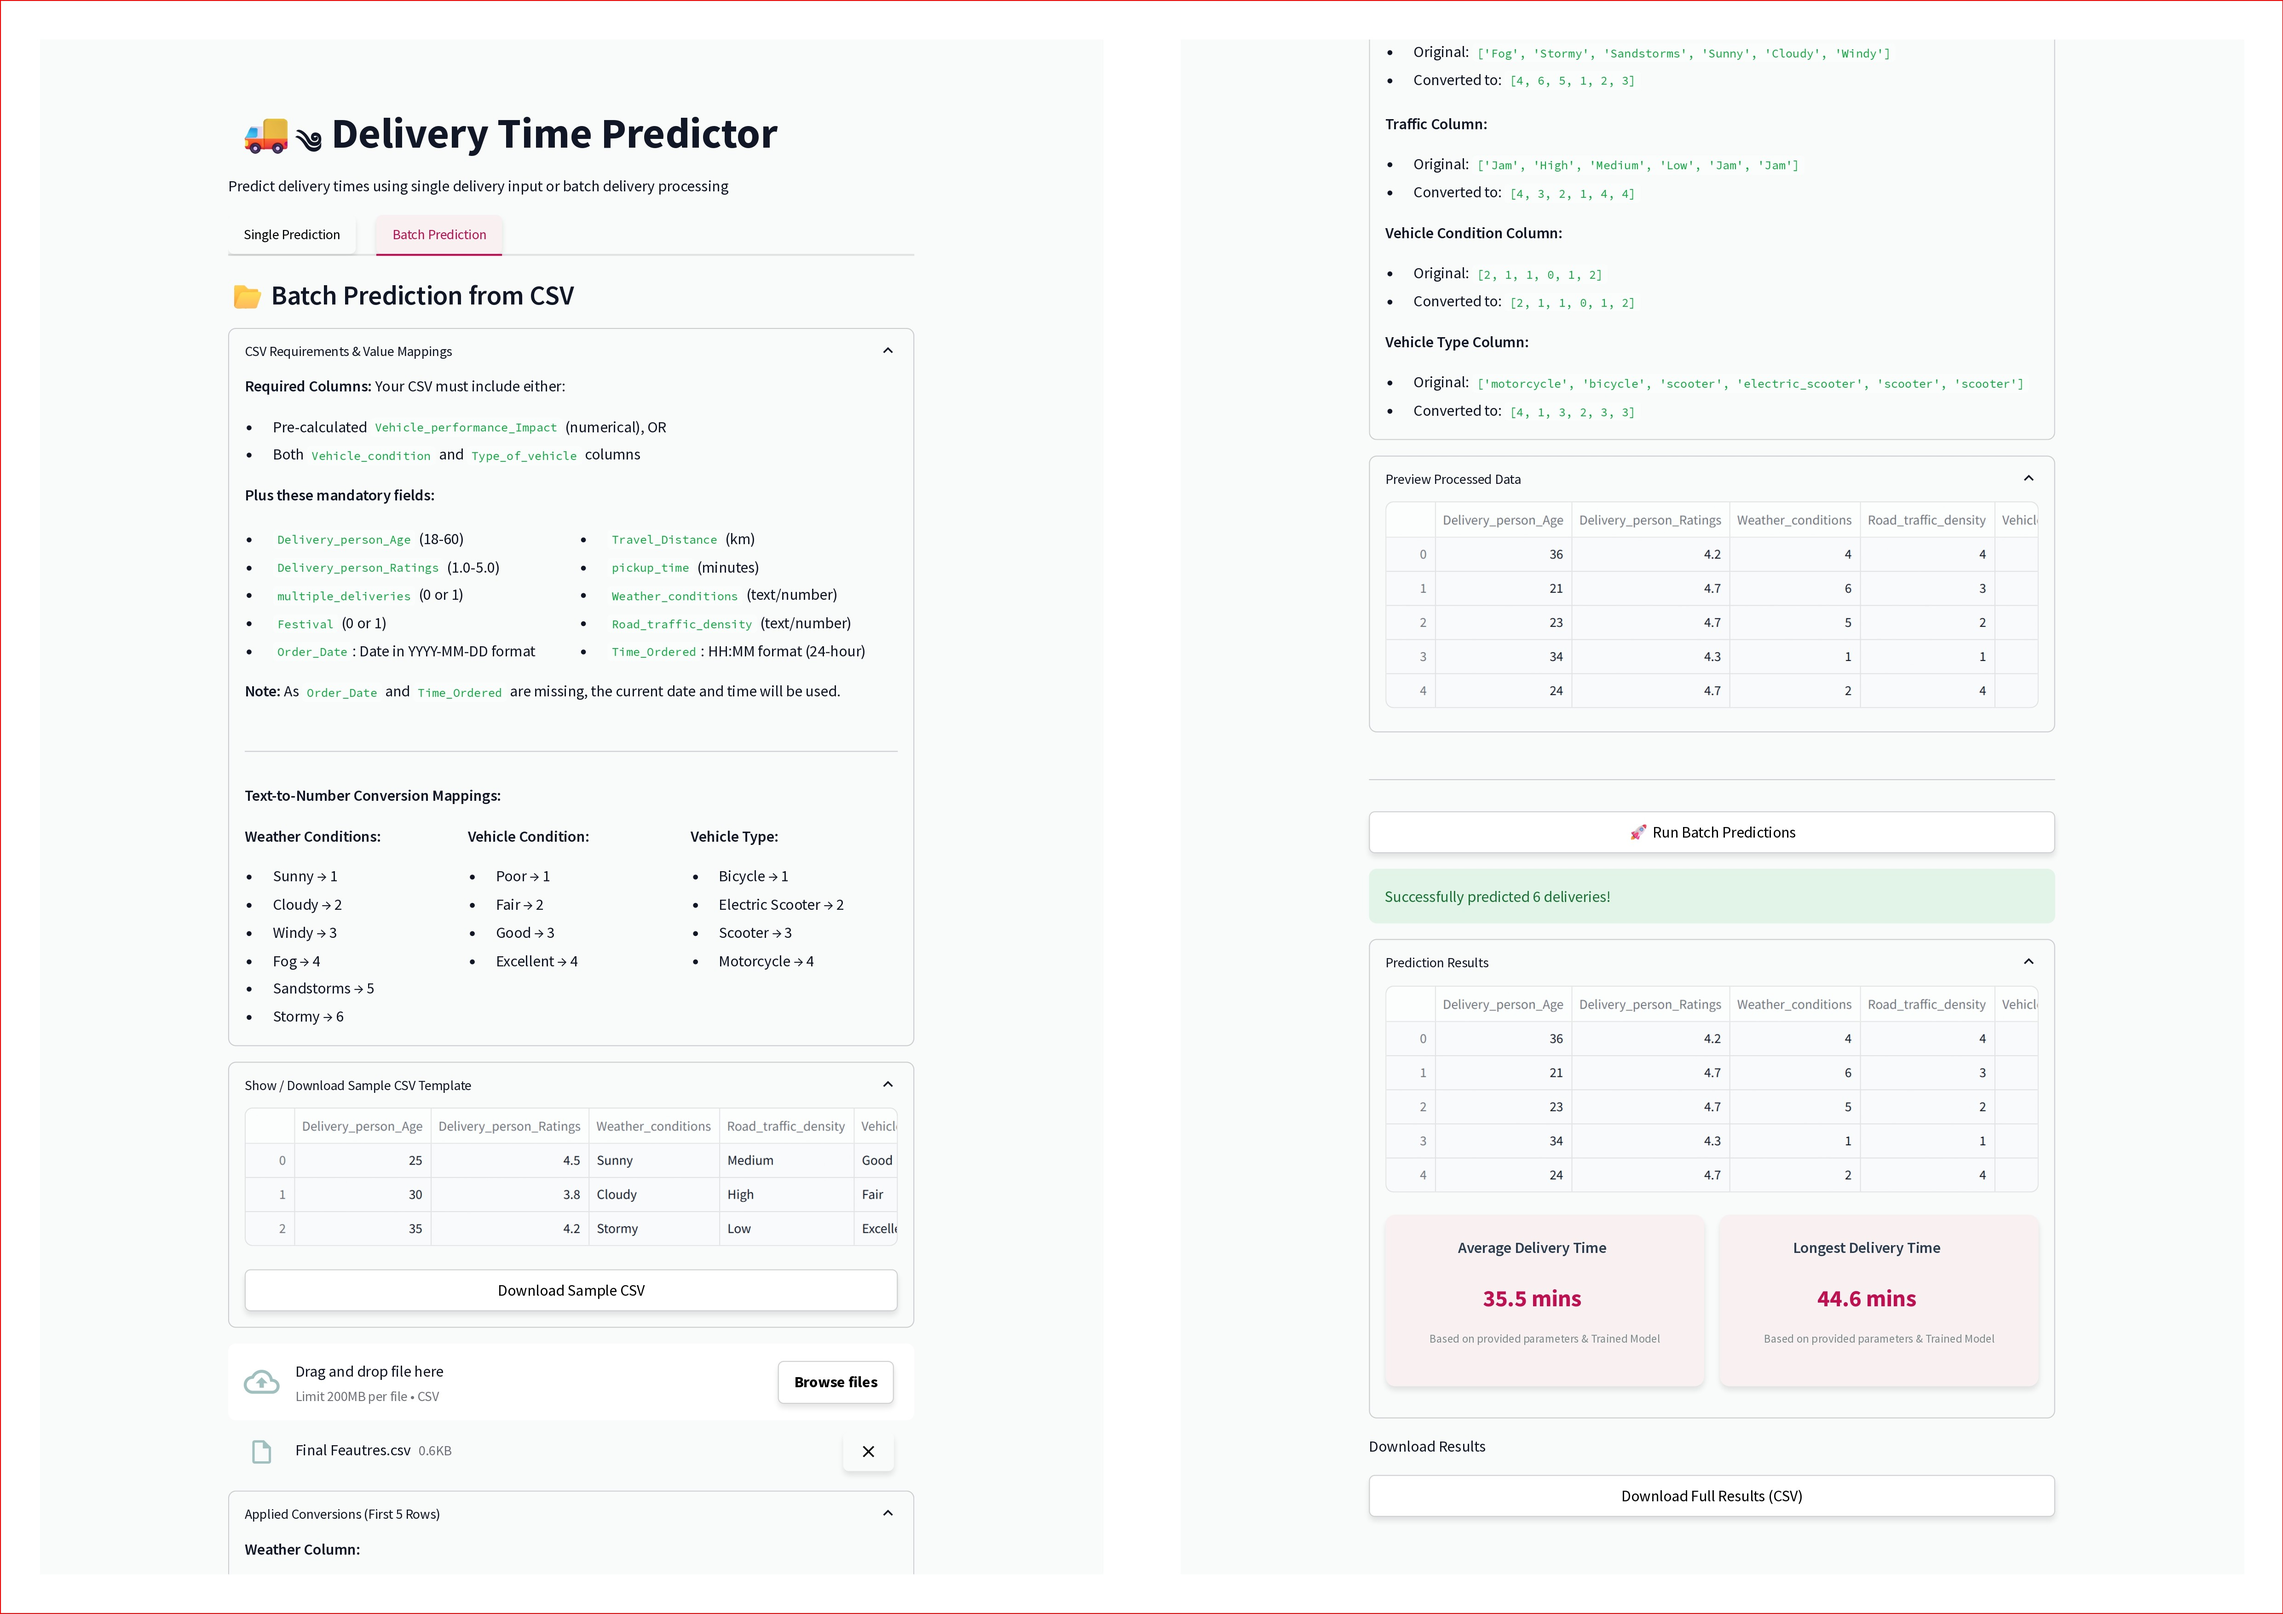
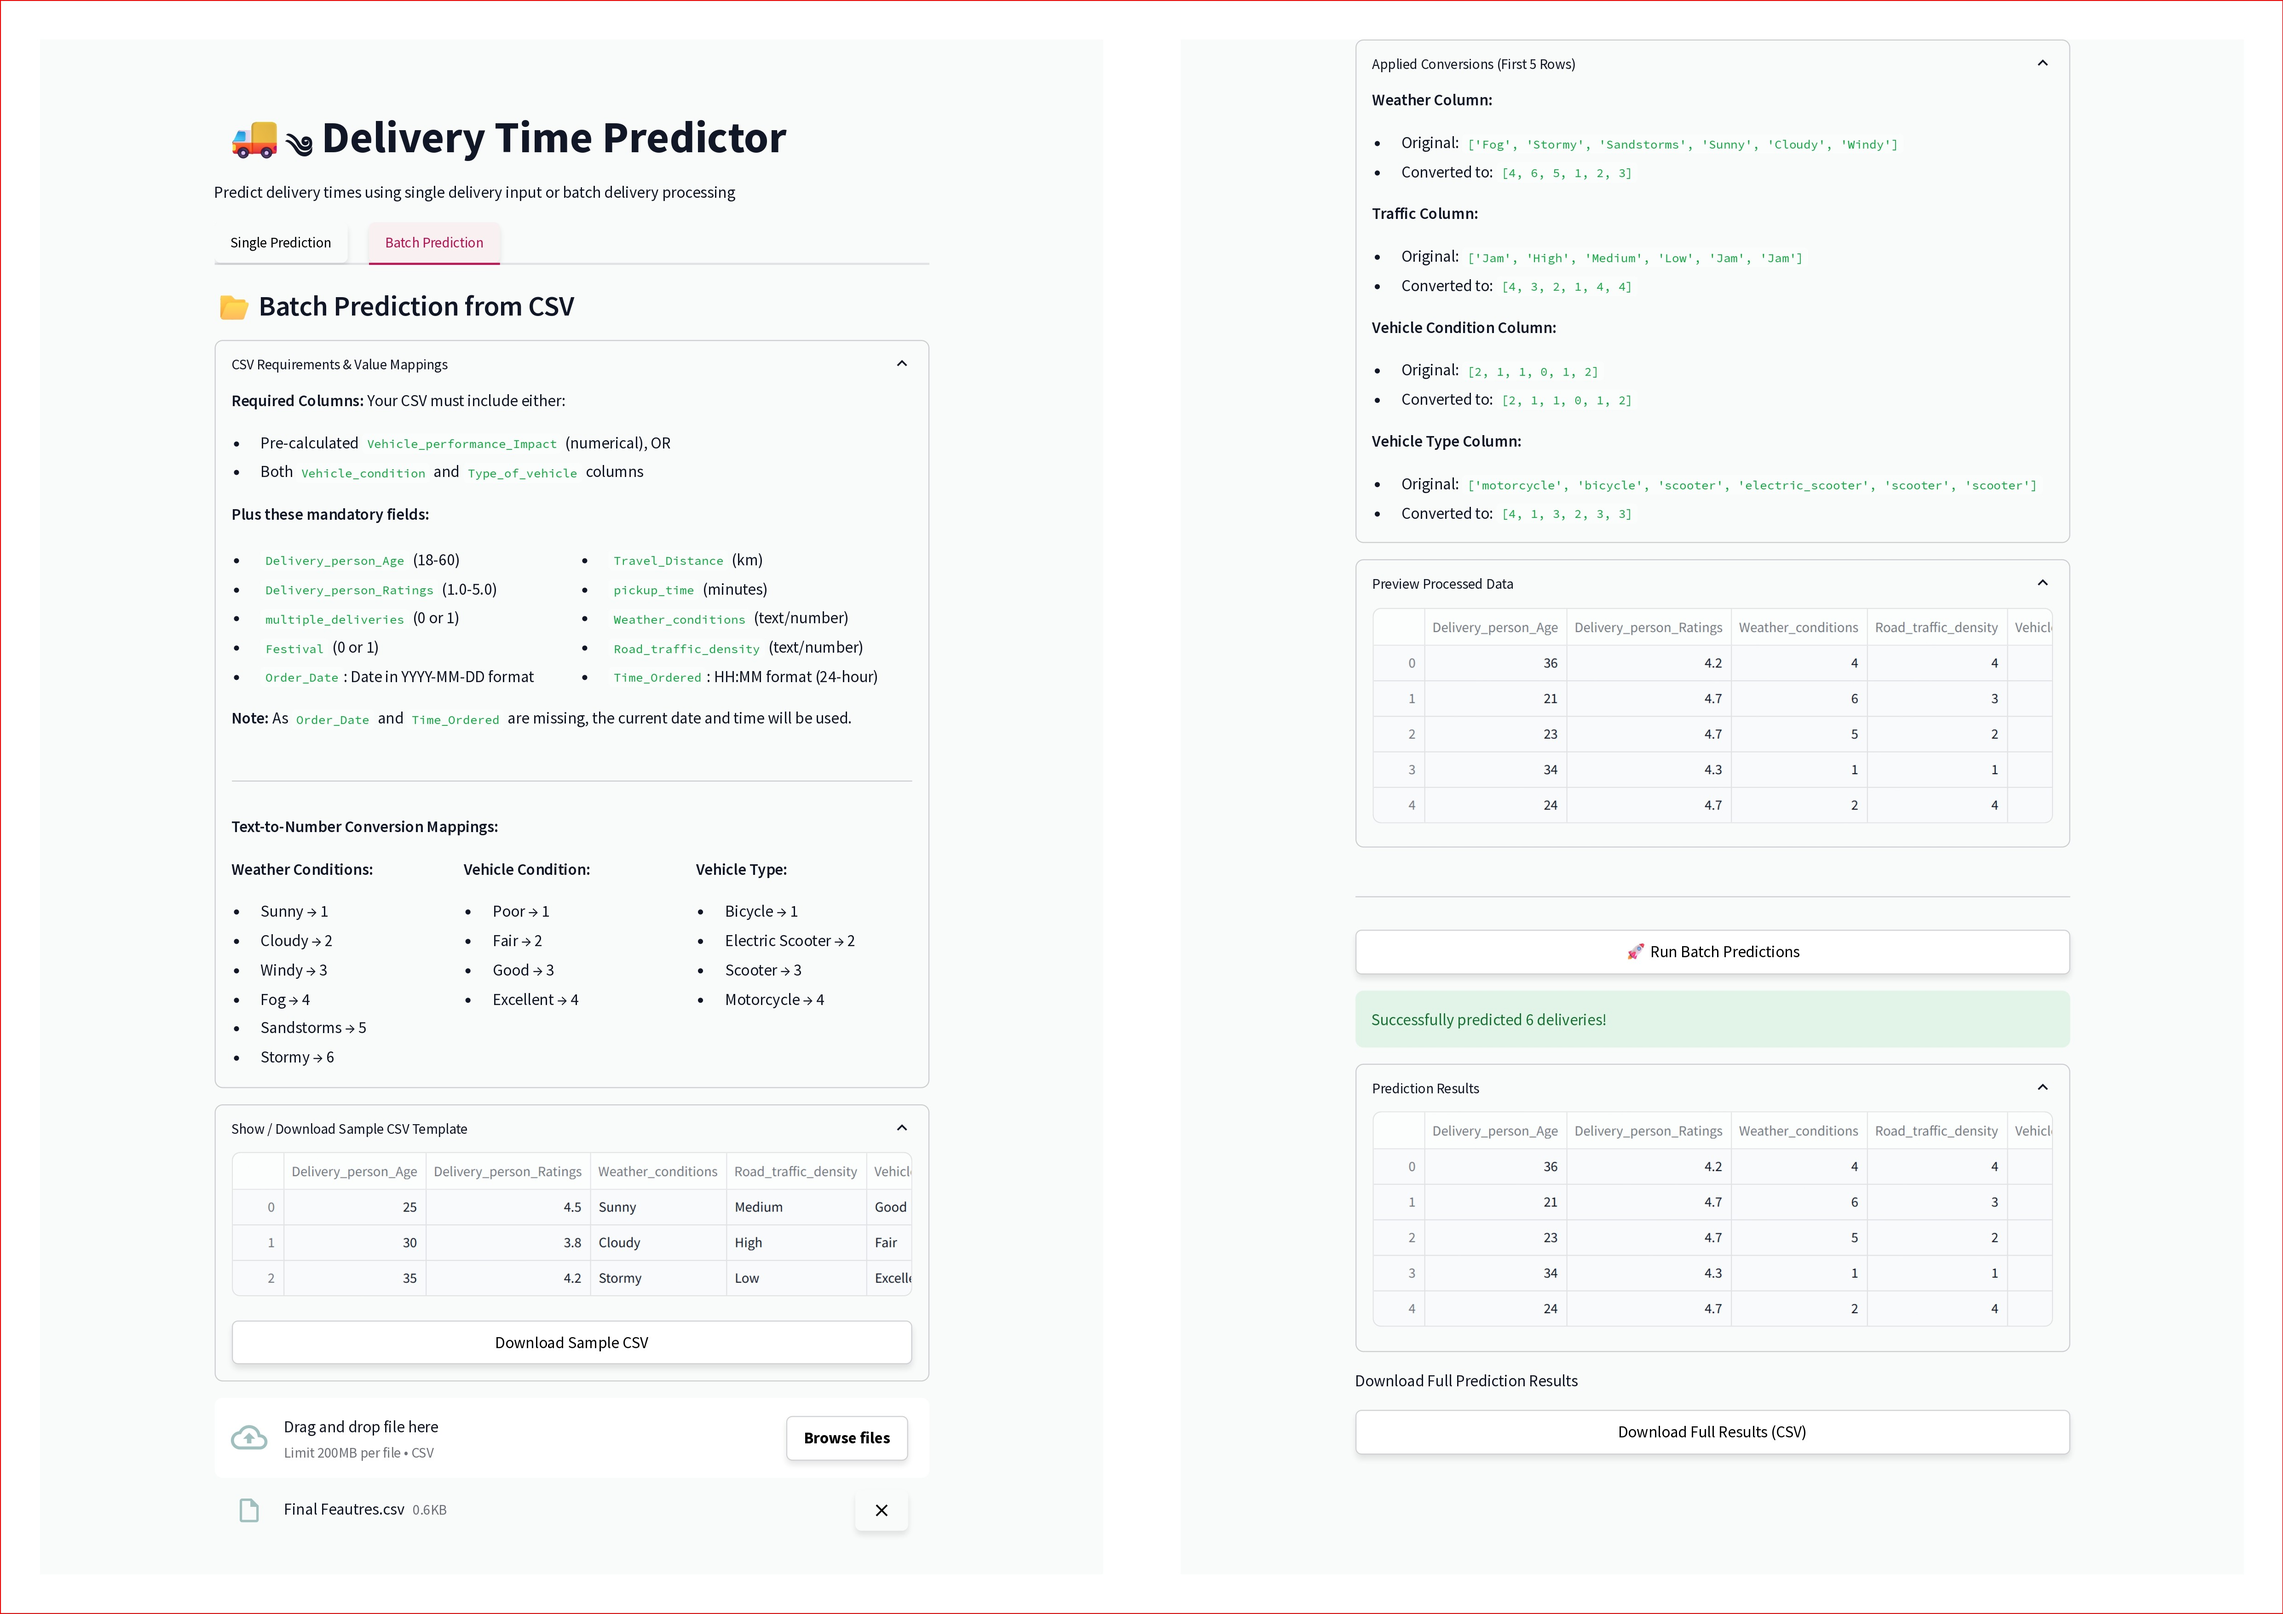
Metric card remove

diff --git a/components/batch_prediction.py b/components/batch_prediction.py
@@ -240,26 +240,10 @@ def batch_prediction_tab():
                         with st.expander("Prediction Results", expanded=True):
                             st.dataframe(result_df.head())
                             
-                            col1, col2 = st.columns(2)
-                            with col1:
-                                st.markdown(f"""
-                                    <div class="metric-card" style="background-color: #F9F0F3; text-align: center;">
-                                        <h6 style="color: #2c3e50;">Average Delivery Time</h6>
-                                        <h4 style="color: #C31052; font-weight: bold;">{result_df['Predicted_Delivery_Time'].mean():.1f} mins</h4>
-                                        <p style="color: #7f8c8d; font-size: 12px;">Based on provided parameters & Trained Model</p>
-                                    </div>
-                                    """, unsafe_allow_html=True)
-                            with col2:
-                                st.markdown(f"""
-                                    <div class="metric-card" style="background-color: #F9F0F3; text-align: center;">
-                                        <h6 style="color: #2c3e50;">Longest Delivery Time</h6>
-                                        <h4 style="color: #C31052; font-weight: bold;">{result_df['Predicted_Delivery_Time'].max():.1f} mins</h4>
-                                        <p style="color: #7f8c8d; font-size: 12px;">Based on provided parameters & Trained Model</p>
-                                    </div>
-                                    """, unsafe_allow_html=True)
+
                         
                         # Download options
-                        st.markdown("Download Results")
+                        st.markdown("Download Full Prediction Results")
                         
                         csv = result_df.to_csv(index=False).encode('utf-8')
                         st.download_button(
